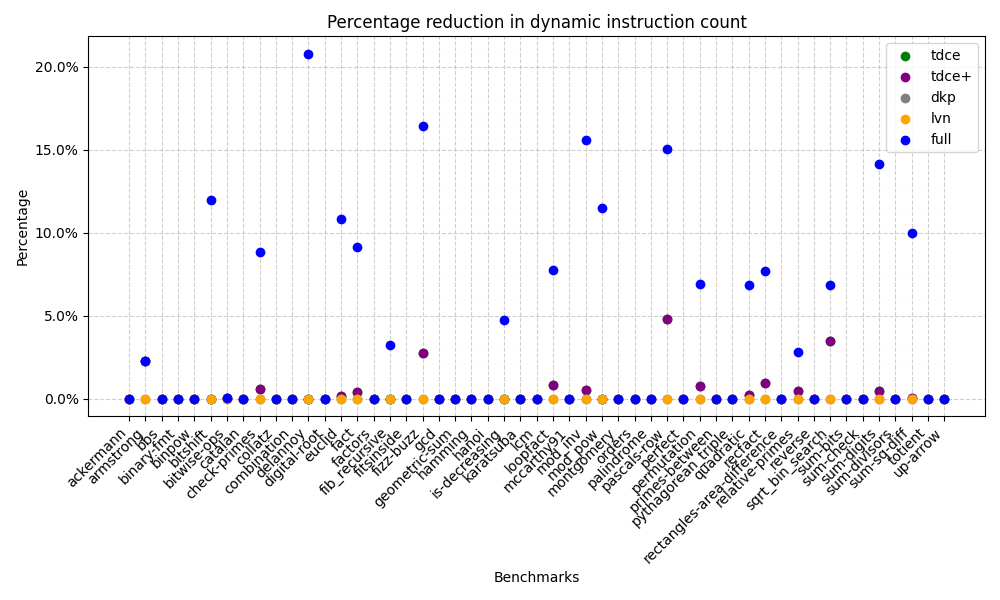
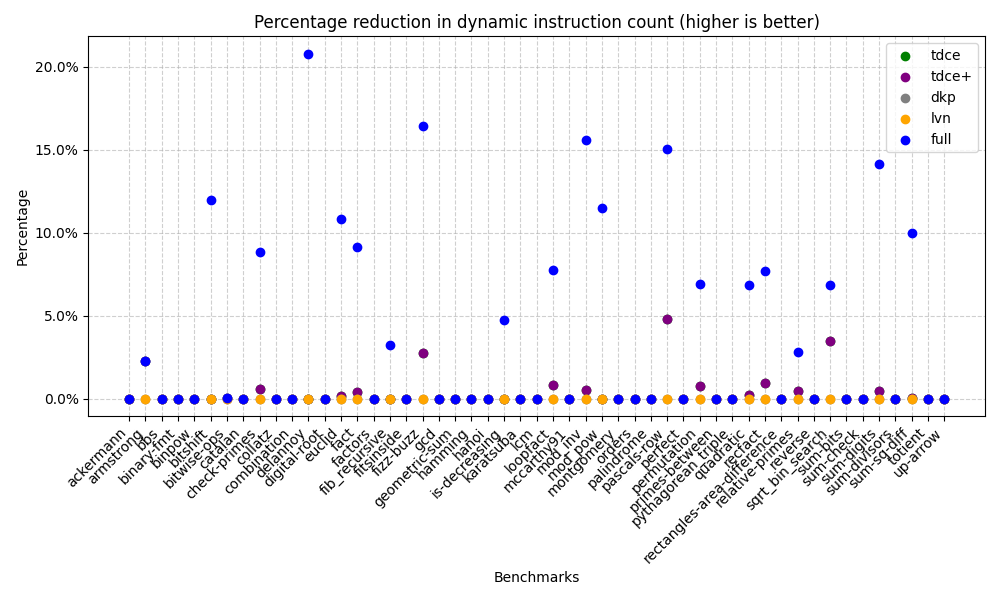
Mention in plot that higher is better

Changed region(s): [[0.248, 0.03, 0.837, 0.06]]

diff --git a/analyze_benchmarks.py b/analyze_benchmarks.py
@@ -65,7 +65,7 @@ if __name__ == '__main__':
     # Plot full
     plt.scatter(x, results_full, color="blue", label="full", zorder=2)
 
-    plt.title("Percentage reduction in dynamic instruction count")
+    plt.title("Percentage reduction in dynamic instruction count (higher is better)")
     plt.xticks(x, benchmarks, rotation=45, ha="right")
     
     # Display y-axis as double-digit percentages
